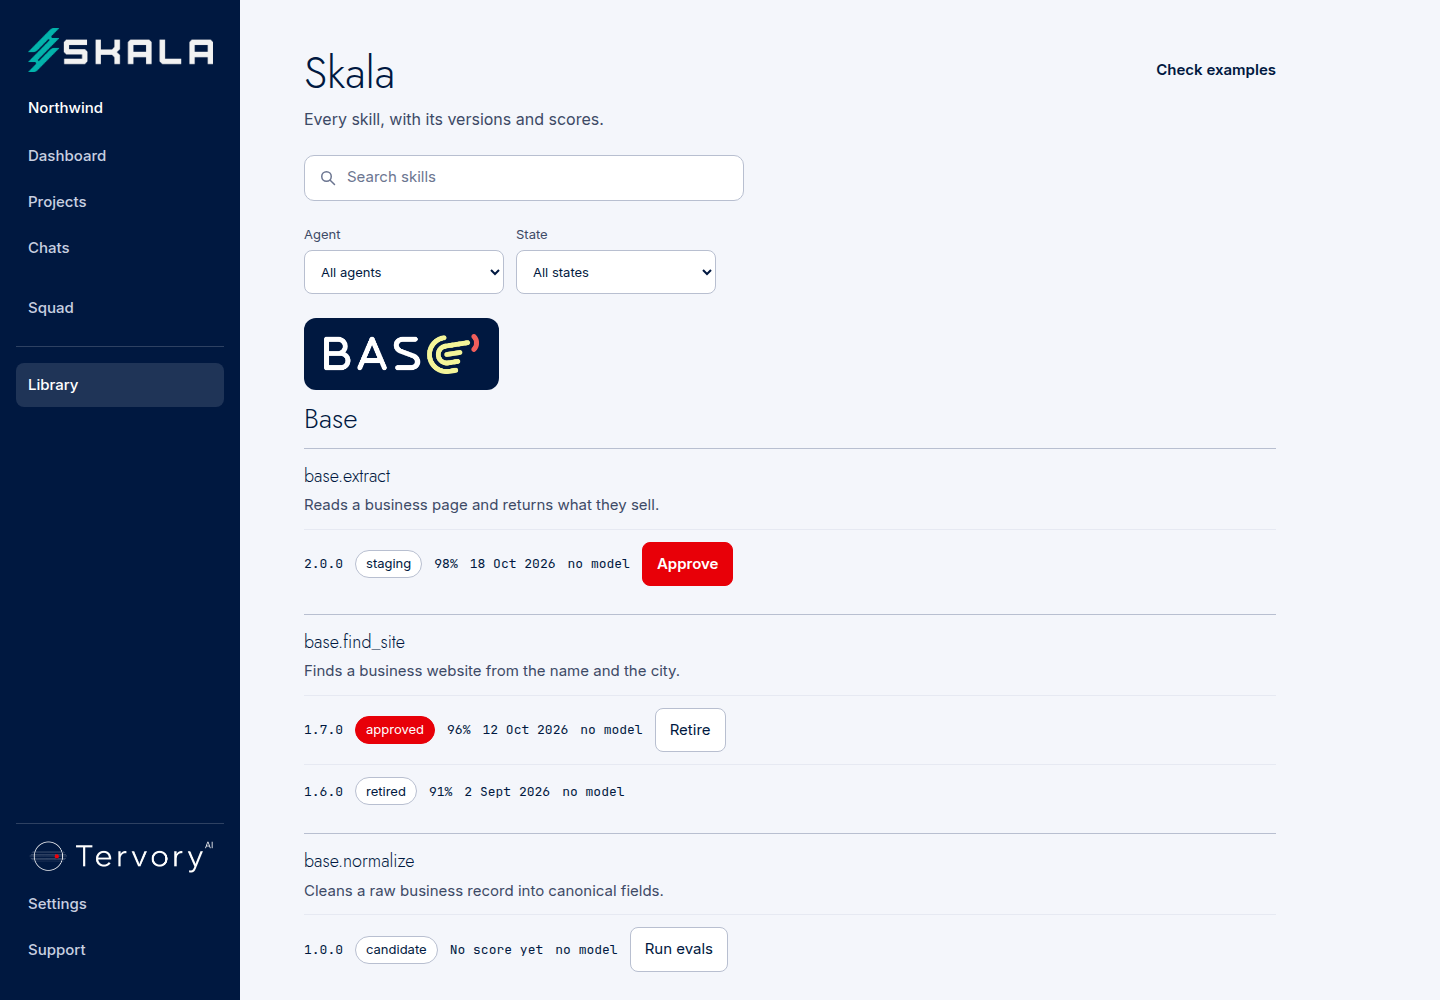
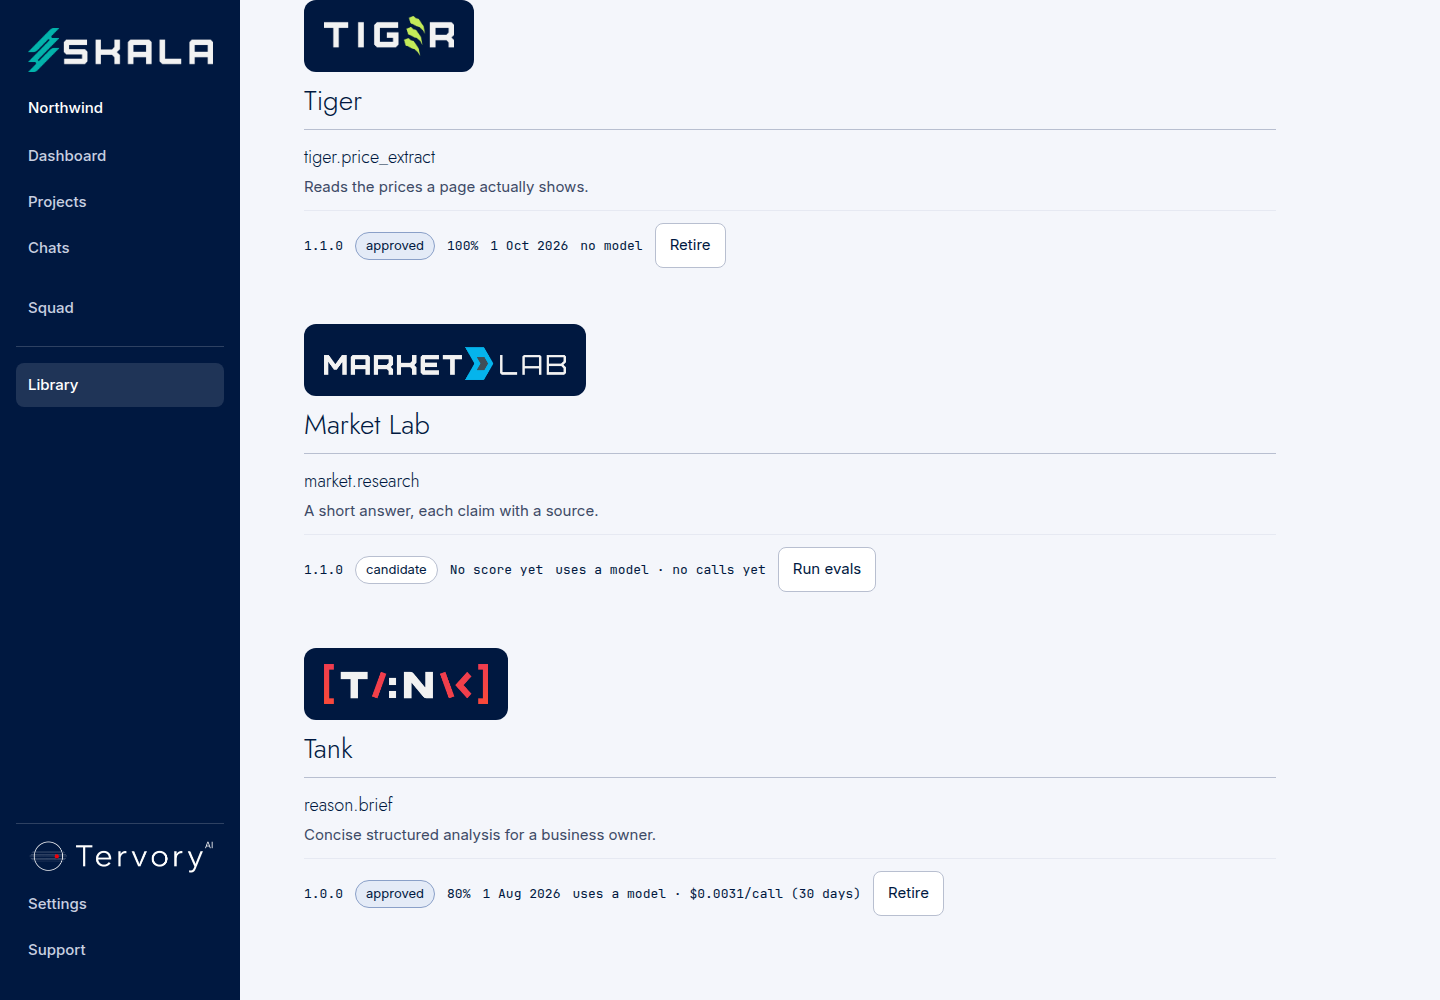
Skala: show the 30-day average cost per model call
Model skills take the mean ledger cost for that version from the platform tenant in this box's region. The approved chip is no longer the same red as Approve.

diff --git a/workspace/app/skala/library.ts b/workspace/app/skala/library.ts
@@ -11,6 +11,8 @@ export type LibrarySkill = {
   last_eval_score: number | string | null;
   last_eval_at: string | null;
   present: boolean;
+  calls_30d?: number | null;
+  avg_cost_usd?: number | string | null;
 };
 
 export type AgentGroup = {
@@ -59,11 +61,31 @@ export function oneLine(description: string): string {
   return line || "No description yet.";
 }
 
-/** Code skills have no model call. A price is not on the skills list, so a model skill is named, not priced. */
-export function costLabel(skill: { rung: number; task_type: string | null }): "no model" | "uses a model" {
-  if (skill.task_type) return "uses a model";
-  if (skill.rung >= 3 || skill.rung === 0) return "no model";
-  return "uses a model";
+function usesModel(skill: { rung: number; task_type: string | null }): boolean {
+  if (skill.task_type) return true;
+  if (skill.rung >= 3 || skill.rung === 0) return false;
+  return true;
+}
+
+/** Four places, matching a few cents of a cent. A smaller non-zero price keeps six. */
+export function formatCallCost(usd: number): string {
+  const four = usd.toFixed(4);
+  if ((four === "0.0000" || four === "-0.0000") && usd !== 0) return `$${usd.toFixed(6)}`;
+  return `$${four}`;
+}
+
+/** Code skills have no model call. A model skill shows this box's 30-day average. */
+export function costLabel(skill: {
+  rung: number;
+  task_type: string | null;
+  calls_30d?: number | null;
+  avg_cost_usd?: number | string | null;
+}): string {
+  if (!usesModel(skill)) return "no model";
+  const calls = Number(skill.calls_30d ?? 0);
+  const avg = typeof skill.avg_cost_usd === "number" ? skill.avg_cost_usd : Number(skill.avg_cost_usd);
+  if (!Number.isFinite(calls) || calls <= 0 || !Number.isFinite(avg)) return "uses a model · no calls yet";
+  return `uses a model · ${formatCallCost(avg)}/call (30 days)`;
 }
 
 export function scoreLabel(score: number | string | null): string {

diff --git a/tests/skala_library.test.ts b/tests/skala_library.test.ts
@@ -57,7 +57,20 @@ test("search and filters keep only matching versions", () => {
 test("descriptions stay on one line and code skills say no model", () => {
   assert.equal(oneLine("  Finds a site.\n  Uses the name.  "), "Finds a site. Uses the name.");
   assert.equal(costLabel({ rung: 3, task_type: null }), "no model");
-  assert.equal(costLabel({ rung: 1, task_type: "reason.brief" }), "uses a model");
+  assert.equal(costLabel({ rung: 3, task_type: null, calls_30d: 4, avg_cost_usd: 1.2 }), "no model");
+  assert.equal(
+    costLabel({ rung: 1, task_type: "reason.brief", calls_30d: 40, avg_cost_usd: 0.0031 }),
+    "uses a model · $0.0031/call (30 days)",
+  );
+  assert.equal(
+    costLabel({ rung: 1, task_type: "reason.brief", calls_30d: 0, avg_cost_usd: null }),
+    "uses a model · no calls yet",
+  );
+  assert.equal(costLabel({ rung: 3, task_type: "market.research" }), "uses a model · no calls yet");
+  assert.equal(
+    costLabel({ rung: 1, task_type: "reason.brief", calls_30d: 2, avg_cost_usd: "0.000012" }),
+    "uses a model · $0.000012/call (30 days)",
+  );
   assert.equal(scoreLabel(null), "No score yet");
   assert.equal(scoreLabel("0.956"), "95.6%");
   assert.equal(scoreDate("2026-10-12T15:00:00Z"), "12 Oct 2026");

diff --git a/workspace/app/skala/page.tsx b/workspace/app/skala/page.tsx
@@ -25,6 +25,8 @@ function asSkill(row: Skill): LibrarySkill {
     last_eval_score: row.last_eval_score,
     last_eval_at: row.last_eval_at,
     present: row.present !== false,
+    calls_30d: Number(row.calls_30d ?? 0),
+    avg_cost_usd: row.avg_cost_usd ?? null,
   };
 }
 

diff --git a/workspace/app/skala/skala.css b/workspace/app/skala/skala.css
@@ -389,9 +389,9 @@ body:has(.skala) main {
 }
 
 .sk-state.approved {
-  background: #e80008;
-  border-color: #e80008;
-  color: #fff;
+  background: #e4ebf7;
+  border-color: #8aa0c8;
+  color: #001840;
 }
 
 .sk-gone { color: #3d4a66; font-size: 14px; }

diff --git a/workspace/lib/tank.ts b/workspace/lib/tank.ts
@@ -171,6 +171,8 @@ export type Skill = {
   approved_by: string | null;
   approved_at: string | null;
   present: boolean;
+  calls_30d?: number;
+  avg_cost_usd?: number | string | null;
 };
 
 export type EvalResult = {

diff --git a/tank/skill_costs.py b/tank/skill_costs.py
@@ -1,0 +1,70 @@
+"""Average cost per call for one skill version, from this box's ledger.
+
+The skills list is not priced. The number is the mean of tank.ledger.cost_usd
+for that id@version over the last 30 days, and only for the platform tenant
+in this process's region. Another tenant's rows are not included.
+"""
+
+from __future__ import annotations
+
+import uuid
+from decimal import Decimal
+from typing import Any
+
+CALL_COST_SQL = """
+SELECT skill,
+       count(*)::int AS calls_30d,
+       avg(cost_usd) AS avg_cost_usd
+FROM tank.ledger
+WHERE tenant_id = $1
+  AND region = $2
+  AND ts > now() - interval '30 days'
+  AND skill IS NOT NULL
+GROUP BY skill
+"""
+
+
+def skill_ref(skill_id: str, version: str) -> str:
+    return f"{skill_id}@{version}"
+
+
+def _avg(value: Any) -> float | None:
+    if value is None:
+        return None
+    if isinstance(value, Decimal):
+        return float(value)
+    return float(value)
+
+
+def cost_by_skill(rows: list[Any]) -> dict[str, dict[str, Any]]:
+    out: dict[str, dict[str, Any]] = {}
+    for row in rows:
+        skill = row["skill"]
+        if not skill:
+            continue
+        calls = int(row["calls_30d"] or 0)
+        out[str(skill)] = {
+            "calls_30d": calls,
+            "avg_cost_usd": _avg(row["avg_cost_usd"]) if calls > 0 else None,
+        }
+    return out
+
+
+async def fetch_call_costs(conn: Any, tenant_id: uuid.UUID, region: str) -> dict[str, dict[str, Any]]:
+    rows = await conn.fetch(CALL_COST_SQL, tenant_id, region)
+    return cost_by_skill(rows)
+
+
+def attach_call_costs(skills: list[dict[str, Any]], costs: dict[str, dict[str, Any]]) -> list[dict[str, Any]]:
+    attached: list[dict[str, Any]] = []
+    for skill in skills:
+        row = dict(skill)
+        found = costs.get(skill_ref(str(row["id"]), str(row["version"])))
+        if found and int(found["calls_30d"]) > 0:
+            row["calls_30d"] = int(found["calls_30d"])
+            row["avg_cost_usd"] = found["avg_cost_usd"]
+        else:
+            row["calls_30d"] = 0
+            row["avg_cost_usd"] = None
+        attached.append(row)
+    return attached

diff --git a/tests/test_skala_call_cost.py b/tests/test_skala_call_cost.py
@@ -1,0 +1,57 @@
+"""Model skills on /skala take their price from this box's platform ledger."""
+
+from __future__ import annotations
+
+import uuid
+from decimal import Decimal
+from pathlib import Path
+
+import pytest
+
+import skill_costs
+
+ROOT = Path(__file__).resolve().parents[1]
+PLATFORM = uuid.UUID("00000000-0000-0000-0000-000000000001")
+
+
+class Conn:
+    def __init__(self, rows: list[dict]) -> None:
+        self.rows = rows
+        self.calls: list[tuple] = []
+
+    async def fetch(self, sql: str, *args: object) -> list[dict]:
+        self.calls.append((sql, args))
+        return self.rows
+
+
+def test_the_query_is_platform_tenant_and_this_region_only() -> None:
+    sql = skill_costs.CALL_COST_SQL
+    assert "tenant_id = $1" in sql
+    assert "region = $2" in sql
+    assert "interval '30 days'" in sql
+    assert "avg(cost_usd)" in sql
+    assert " OR " not in sql
+    body = (ROOT / "tank" / "main.py").read_text(encoding="utf-8")
+    fn = body.split("async def list_skills", 1)[1].split("\nclass ", 1)[0]
+    assert "fetch_call_costs(conn, PLATFORM_TENANT, box_region())" in fn
+
+
+@pytest.mark.asyncio
+async def test_each_version_gets_its_own_30_day_average() -> None:
+    conn = Conn([
+        {"skill": "market.research@1.1.0", "calls_30d": 8, "avg_cost_usd": Decimal("0.0031")},
+        {"skill": "base.find_site@1.7.0", "calls_30d": 2, "avg_cost_usd": Decimal("0")},
+        {"skill": None, "calls_30d": 5, "avg_cost_usd": Decimal("1")},
+    ])
+    costs = await skill_costs.fetch_call_costs(conn, PLATFORM, "za")
+    assert conn.calls[0][1] == (PLATFORM, "za")
+    skills = skill_costs.attach_call_costs([
+        {"id": "market.research", "version": "1.1.0"},
+        {"id": "market.research", "version": "1.0.0"},
+        {"id": "base.find_site", "version": "1.7.0"},
+    ], costs)
+    assert skills[0]["calls_30d"] == 8
+    assert skills[0]["avg_cost_usd"] == pytest.approx(0.0031)
+    assert skills[1] == {"id": "market.research", "version": "1.0.0", "calls_30d": 0, "avg_cost_usd": None}
+    assert skills[2]["calls_30d"] == 2
+    assert skills[2]["avg_cost_usd"] == 0.0

diff --git a/tank/main.py b/tank/main.py
@@ -8,7 +8,7 @@ Endpoints
   GET  /v1/tasks/{id}?tenant_id=         one task
   POST /v1/ledger/{id}/feedback          a person's verdict on an answer: accepted | rejected
   GET  /v1/ledger/summary                spend by model and rung for a tenant (the client's ledger view)
-  GET  /v1/skala                        Skala registry: every package and its state
+  GET  /v1/skala                        Skala registry: every package, its state, and 30-day call cost
   POST /v1/skala/{id}/{ver}/evals       run a package's golden cases; candidate -> staging on pass
   POST /v1/skala/{id}/{ver}/approve     human sign-off; previous approved version retires
   POST /v1/skala/{id}/{ver}/retire      take a version out of service
@@ -53,6 +53,7 @@ from pydantic import BaseModel, Field
 
 import graduate
 import skala
+import skill_costs
 
 log = logging.getLogger("tank")
 
@@ -2096,9 +2097,11 @@ async def vendor_ledger(body: VendorCall, agent: str | None = Depends(require_ke
 
 @app.get("/v1/skala", dependencies=[Depends(require_key)])
 async def list_skills() -> list[dict[str, Any]]:
+    """Every skill, plus the platform tenant's average cost per call on this box over 30 days."""
     async with pool().acquire() as conn:
         rows = await conn.fetch("SELECT * FROM tank.skills ORDER BY agent, id, version")
-    return [dict(r) for r in rows]
+        costs = await skill_costs.fetch_call_costs(conn, PLATFORM_TENANT, box_region())
+    return skill_costs.attach_call_costs([dict(r) for r in rows], costs)
 
 
 class EvalRun(BaseModel):

diff --git a/tests/test_skala_page.py b/tests/test_skala_page.py
@@ -43,6 +43,14 @@ def test_page_has_no_vault_off_state_or_transfer_button():
     library = (PAGE / "library.ts").read_text(encoding="utf-8")
     assert "Approve ${id} ${version}?" in library
     assert "no model" in library
+    assert "uses a model · ${formatCallCost(avg)}/call (30 days)" in library
+    assert "uses a model · no calls yet" in library
+    css = (PAGE / "skala.css").read_text(encoding="utf-8")
+    primary = css.split(".skala .primary", 1)[1].split("}", 1)[0].lower()
+    approved = css.split(".sk-state.approved", 1)[1].split("}", 1)[0].lower()
+    assert "#e80008" in primary
+    assert "#e80008" not in approved
+    assert "background" in approved
 
 
 def test_library_page_uses_the_skills_list_and_official_logos():
